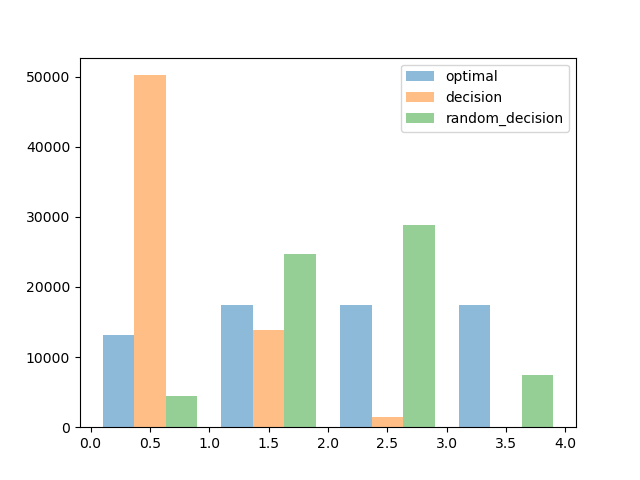
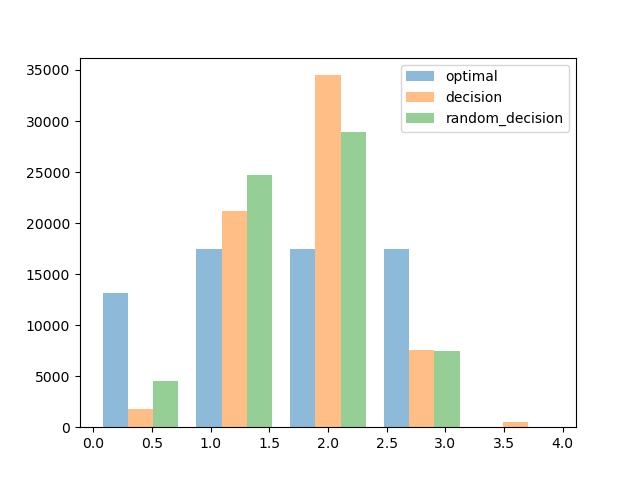
Back to original selfattention, this one works

diff --git a/main.py b/main.py
@@ -12,7 +12,7 @@ import random
 import matplotlib.pyplot as plt
 
 os.environ["CUDA_DEVICE_ORDER"] = "PCI_BUS_ID"
-os.environ["CUDA_VISIBLE_DEVICES"] = "1"
+os.environ["CUDA_VISIBLE_DEVICES"] = "0"
 os.environ["WANDB_API_KEY"] = "04a5d6fba030b76e5b620f5bd6509cf7dffebb8b"
 
 def train(cfg, train_loader, test_loader):
@@ -57,12 +57,12 @@ def train(cfg, train_loader, test_loader):
         print(optimal)
         optimal = optimal.cpu().numpy()
         decisions = decisions.cpu().numpy()
-        optimal_histo = np.histogram(optimal, bins=range(cfg.train.n_budgets+1))
-        decision_histo = np.histogram(decisions, bins=range(cfg.train.n_budgets+1))
-        random_decision_histo = np.histogram(random_decision, bins=range(cfg.train.n_budgets+1))
+        optimal_histo = np.histogram(optimal, bins=cfg.train.n_budgets+1)
+        decision_histo = np.histogram(decisions, bins=cfg.train.n_budgets+1)
+        random_decision_histo = np.histogram(random_decision, bins=cfg.train.n_budgets+1)
 
         fig = plt.figure()
-        plt.hist([optimal, decisions, random_decision], alpha=0.5, bins=range(cfg.train.n_budgets+1), label=["optimal", "decision", "random_decision"])
+        plt.hist([optimal, decisions, random_decision], alpha=0.5, bins=cfg.train.n_budgets+1, label=["optimal", "decision", "random_decision"])
         plt.legend(loc='upper right')
         plt.savefig("histo.png")
 

diff --git a/model.py b/model.py
@@ -178,8 +178,8 @@ class AdaPT(nn.Module):
         self.full_drop_budget = nn.Parameter(torch.ones(1, 1, 32)).to(self.device)
 
         self.arpe = ARPE(in_channels=3, out_channels=self.embed_dim, npoints=self.n_points)
-        self.blocks = nn.ModuleList([GSA(channels=self.embed_dim, groups=self.groups) for _ in range(self.n_blocks)])
-        #self.blocks = nn.ModuleList([TransformerBlock(d_model=self.embed_dim, n_heads=self.groups) for _ in range(self.n_blocks)])
+        #self.blocks = nn.ModuleList([GSA(channels=self.embed_dim, groups=self.groups) for _ in range(self.n_blocks)])
+        self.blocks = nn.ModuleList([TransformerBlock(d_model=self.embed_dim, n_heads=self.groups) for _ in range(self.n_blocks)])
         self.all_predictors = nn.ModuleList([nn.ModuleList([DropPredictor(self.embed_dim, budget_dim=0) for _ in range(len(self.drop_loc))]) for _ in range(self.n_budgets)])
         
 
